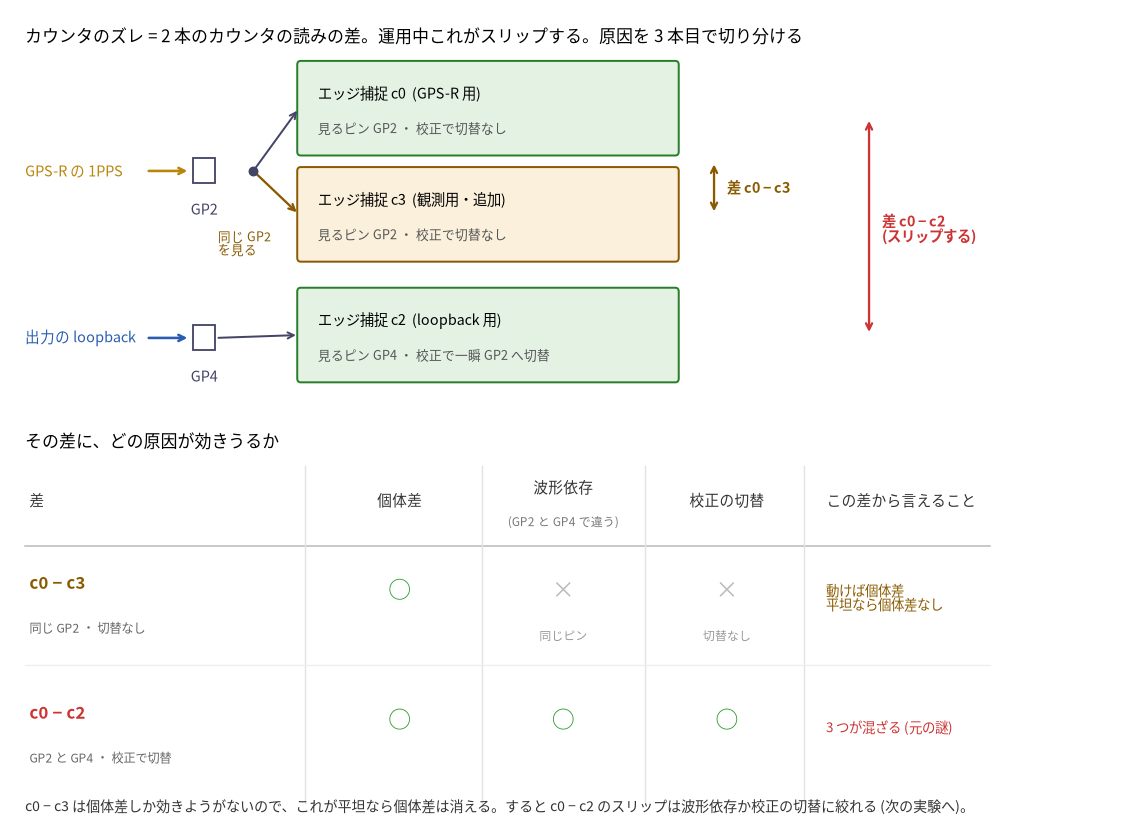
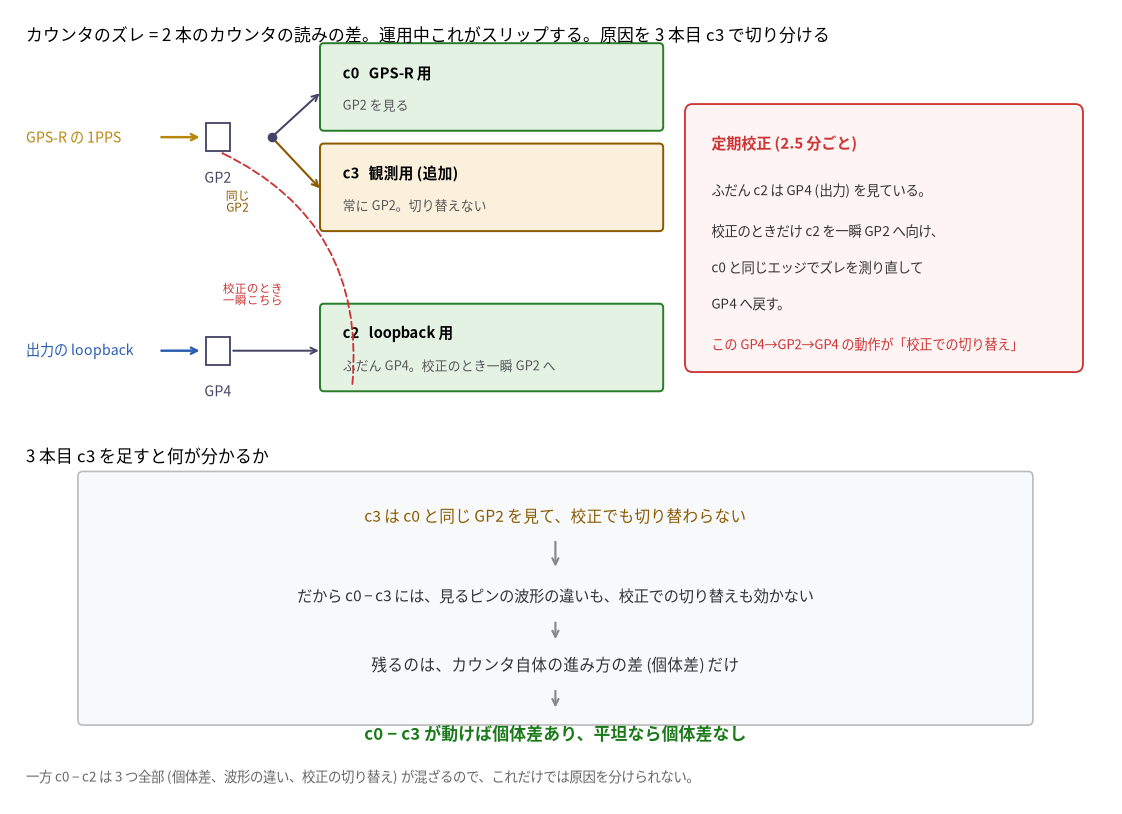
docs(precision): 切り分け図を分かりやすく — 表を廃し「校正での切り替え」を明示
「表が分かりにくい / 校正の切替が何か不明」への対応:
- 上段の吹き出しと破線で「校正での切り替え」= 定期校正で c2 を一瞬 GP2 へ
  向けズレを測り直して GP4 へ戻す動作、と図中で定義
- 下段の原因×差マトリクスを廃し、理由の連鎖に変更 (c3 は同じ GP2・切替なし
  → c0−c3 に波形も切替も効かない → 残るは個体差だけ → 動けば個体差、平坦なら無し)

Claude-Session: https://claude.ai/code/session_01QA3SZ4k1hmnnVeG51UZWBZ

diff --git a/docs/report/precision-ladder/README.md b/docs/report/precision-ladder/README.md
@@ -211,7 +211,7 @@ PLL を入れると内部の loopback 位相は 0 付近に寄る。ただ、内
 
 切り分けには観測を 1 本足すのが早い。PIO には捕捉プログラムを走らせられる枠が 1 本余っているので、3 本目のカウンタを GPS-R のピンへ常時向け、既存の 2 本と合わせて 3 つの読みを毎秒すべてログしながら 2.4 時間流す。オシロも並走させて、ピンの上の真値と突き合わせる。同じピンを見る 2 本の差が動けば個体差で、動かなければ残りの 2 つに絞れる。
 
-![カウンタのズレの原因の切り分け。上: 3 本のカウンタ (GPS-R 用 c0 と観測用 c3 は GP2、loopback 用 c2 は GP4) と、各自が見るピンと校正での切替の有無。下: 差ごとに効きうる原因。c0 − c3 は同じ GP2 で切替もないので個体差しか効かず、c0 − c2 は 3 つ全部が混ざる](precision-figs/fig-kexp-setup.png)
+![カウンタのズレの原因の切り分け。上: 3 本のカウンタと各自が見るピン。c2 は校正のとき一瞬 GP2 へ切り替わる (これが「校正での切り替え」)。下: c3 は c0 と同じ GP2 を見て切り替わらないので、c0 − c3 には波形の違いも切り替えも効かず、残るのは個体差だけ。c0 − c2 は 3 つ全部が混ざる](precision-figs/fig-kexp-setup.png)
 
 結果は仮説を 1 つに絞った。同じ GPS-R ピンを見る 2 本の差は、2.4 時間で量子化の ±1 tick を残して平坦のまま動かない (傾きは 0.000 ns/min)。個体差は消えた。定期校正が測るズレは 56 回中 42 回がぴったり −4 tick で、温度とは無相関だった。連続してたまるドリフトではなく、校正 1 回につき 1 個ずつ出る固定量ということになる。そして肝心のピンの上は、オシロで見るかぎり 2.4 時間ずっと平坦のまま (傾き −0.006 ns/min)。つまり −4 tick は、切替が自分で作り、次の校正がズレごと測り直して自分で打ち消す、ピンに届かない見かけの量になる。残るのは校正手続きの見かけ、それも切替 1 回あたりの固定量という形だ。
 
